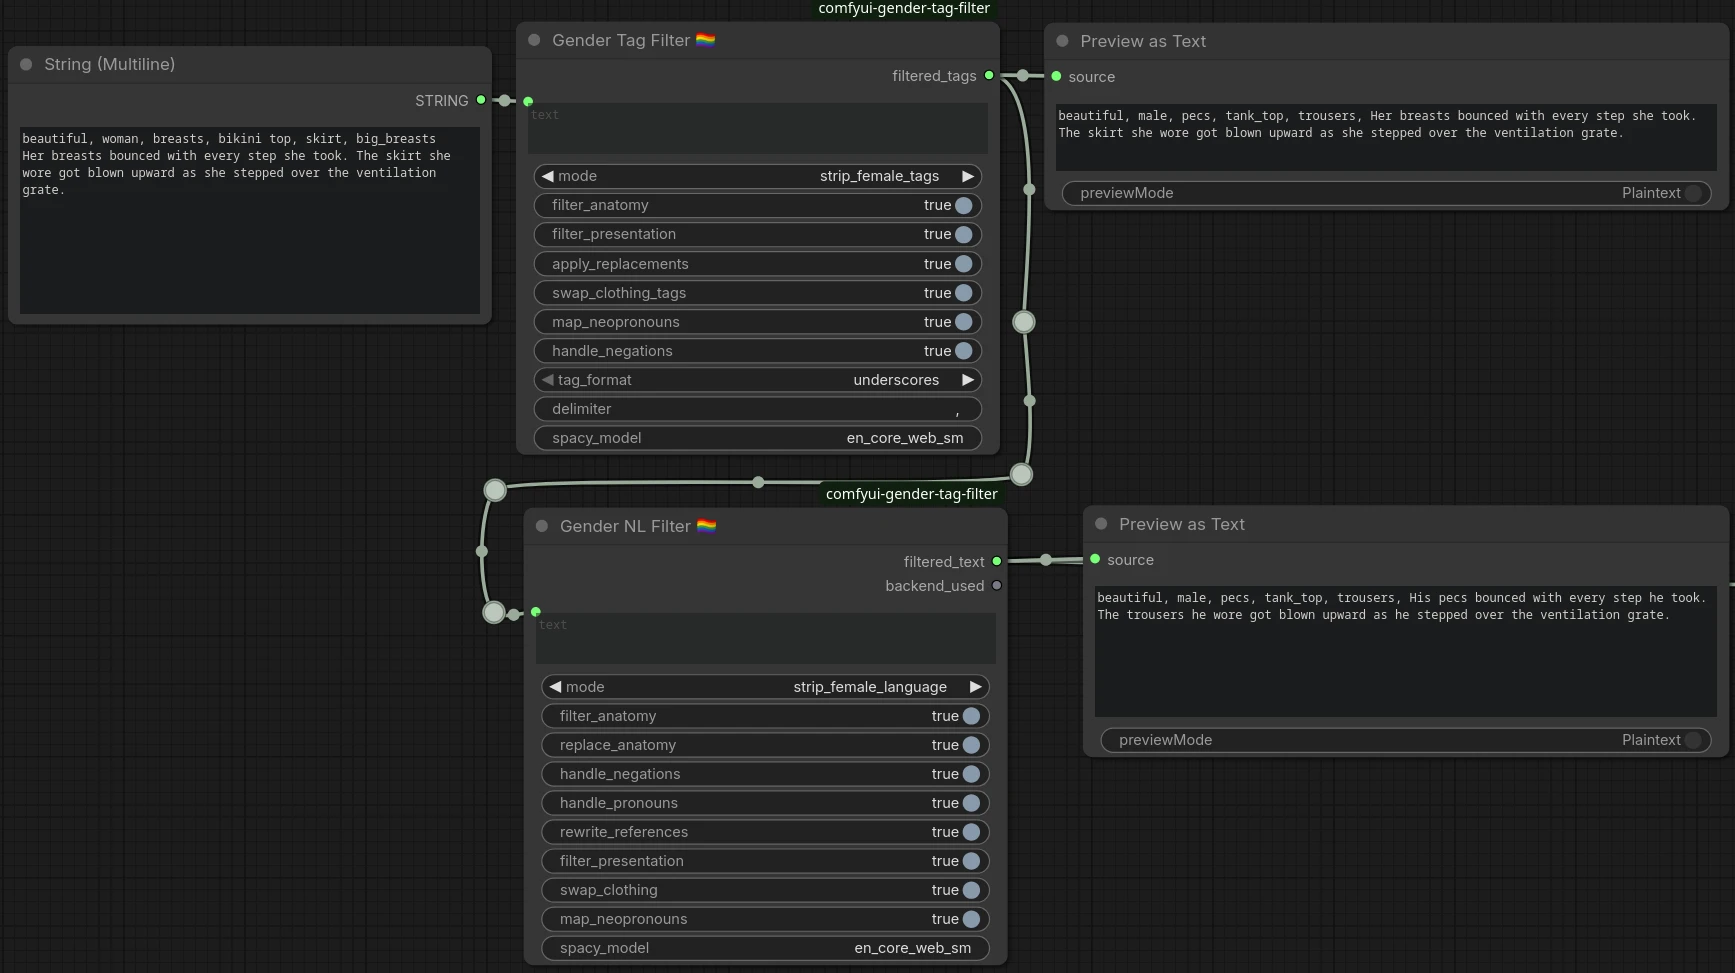
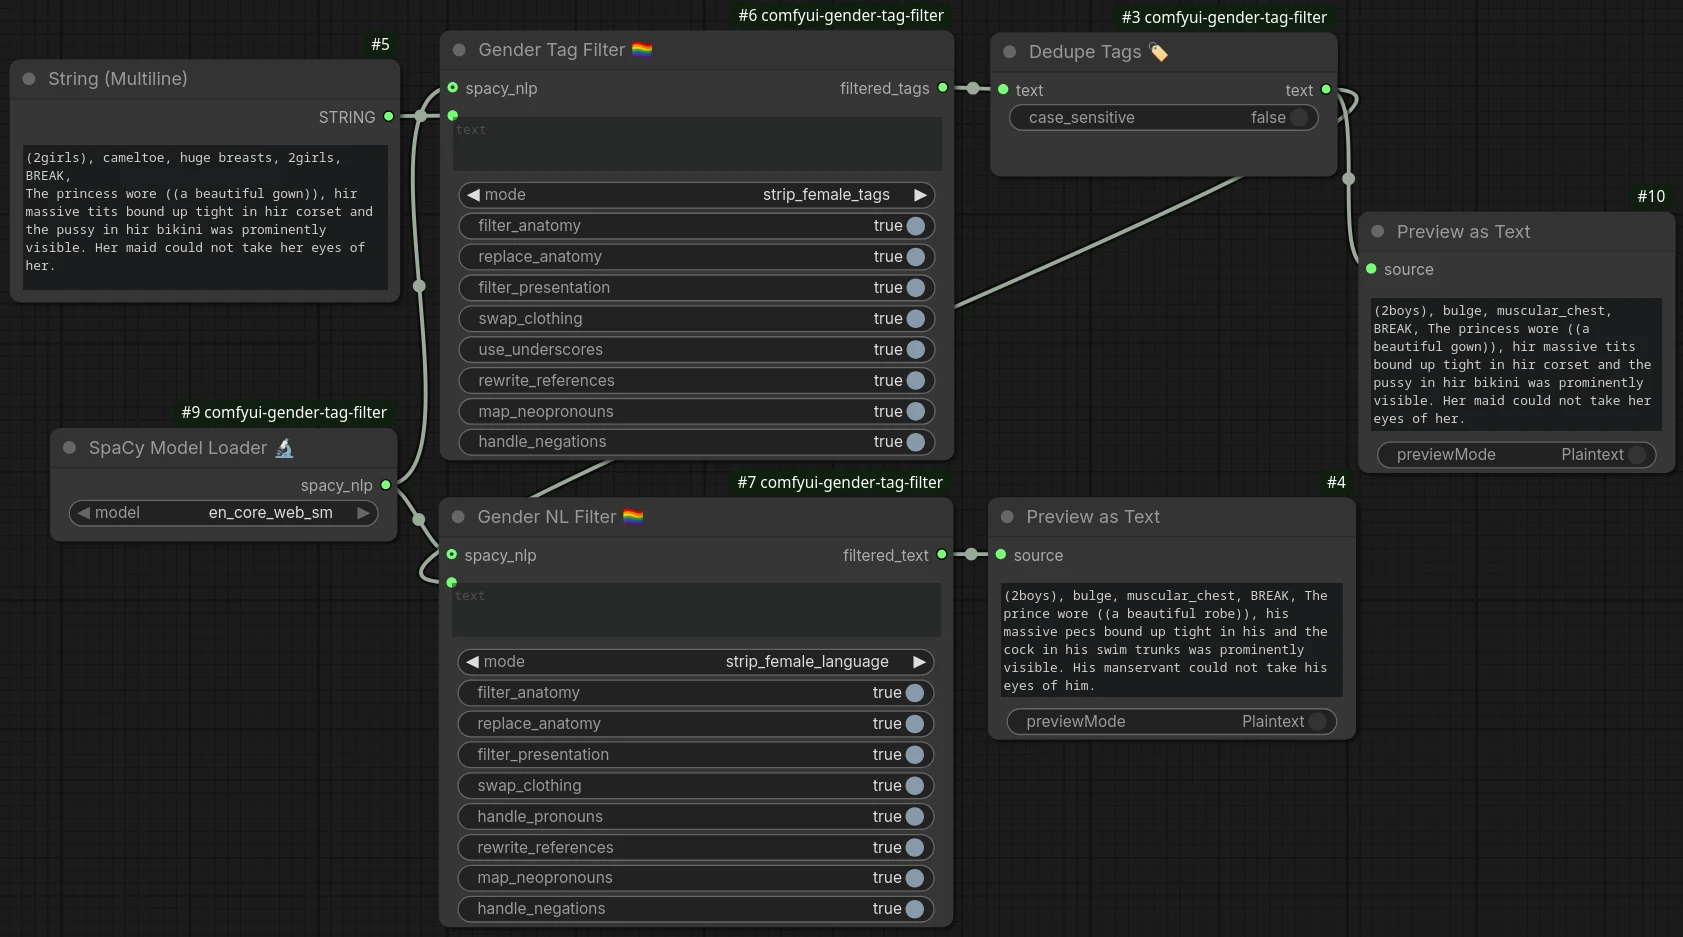
v1.2.1

Changed region(s): [[0.0, 0.0, 1.0, 1.0], [0.6179, 0.2476, 0.6488, 0.2785]]

diff --git a/gender_shared.py b/gender_shared.py
@@ -234,6 +234,7 @@ def format_tag(tag: str, tag_format: str) -> str:
 # NL / tag detection
 # ---------------------------------------------------------------------------
 
+# fmt: off
 NL_STOP_WORDS = frozenset({
     # Articles and copulas - never appear in Danbooru tags
     "a", "an", "the",
@@ -1508,6 +1509,7 @@ CLOTHING_MALE_TO_FEMALE_NL = {
     "tie":                  "choker",
     "necktie":              "choker",
 }
+# fmt: on
 
 # ---------------------------------------------------------------------------
 # Dangling adjective pattern (used in NL anatomy removal)

diff --git a/RELEASE_NOTES.md b/RELEASE_NOTES.md
@@ -1,68 +1,23 @@
-# v1.2.0 - SpaCy Model Loader, emphasis syntax, massively expanded data, and studio-quality polish
+# v1.2.1 - Source layout restored
 
-A major upgrade. Four nodes now instead of three. Every tag list has been expanded by 3-5x, emphasis syntax is now fully supported, spaCy is wired in as a proper typed graph connection, and the codebase has been refactored for production quality.
+A housekeeping patch. No functional changes.
 
 ---
 
 ## Highlights
 
-### SpaCy Model Loader — a proper typed node for spaCy
+### Human-readable data maps restored
 
-spaCy is no longer a hidden string input buried at the bottom of each filter node. A new **SpaCy Model Loader** node loads a model from `ComfyUI/models/spacy/` and outputs a typed `SPACY_NLP` object. Wire it into either filter node to enable spaCy-backed processing; leave it disconnected to use the built-in fallback.
+The Ruff formatter had quietly collapsed all the neatly aligned data maps and replacement tables in `gender_shared.py` into dense, hard-to-read single-line style. The maps are now protected with `# fmt: off` / `# fmt: on` markers so the aligned column layout is preserved and stays that way.
 
-The `SPACY_NLP` custom type means the ComfyUI graph enforces the connection — only the loader can feed those inputs. The presence or absence of the loader node in your graph is itself the signal for whether spaCy is active, replacing the old `backend_used` output.
+If you ever want to add words, tags, or swap pairs to the data sets, `gender_shared.py` is once again easy to navigate and edit.
 
-The loader also detects the most common setup mistake: accidentally placing the outer pip package wrapper folder instead of the inner versioned model folder. It appears in the dropdown, and selecting it produces a clear error with the exact paths to fix.
+### Updated screenshot
 
-### Emphasis syntax support across all nodes
-
-A1111/Forge emphasis syntax - `(tag:1.3)`, `((tag))`, `[tag]` - is now correctly parsed, filtered, and re-wrapped with the original emphasis intact. Previously, emphasis-wrapped tags could bypass filtering entirely.
-
-LoRA (`<lora:name:weight>`), hypernetwork, LyCORIS, and embedding syntax are detected and passed through untouched. The `BREAK` keyword is also preserved.
-
-This applies to all three nodes: Gender Tag Filter, Gender NL Filter, and Dedupe Tags.
-
-### 3-5x larger tag coverage
-
-The tag and word lists that power the filtering have been massively expanded:
-
-| Data set | v1.1.0 | v1.2.0 |
-| --- | --- | --- |
-| Female anatomy tags | ~40 | **145** |
-| Male anatomy tags | ~25 | **118** |
-| Female presentation tags | ~50 | **152** |
-| Male presentation tags | ~15 | **43** |
-| F→M clothing swaps | ~30 | **112** |
-| M→F clothing swaps | ~15 | **56** |
-| F→M NL word swaps | ~40 | **128** |
-| M→F NL word swaps | ~35 | **118** |
-| NL clothing patterns | ~20 | **111** |
-| Anatomy root words | ~15 | **69** |
-| Neopronoun entries | ~10 | **35** |
-
-New coverage includes exposure/situational tags (`pantyshot`, `upskirt`, `zettai_ryouiki`, `no_bra`, `no_panties`), furry-specific gendered terms (`vixen`, `doe`, `mare`, `tigress`, `stallion`, `buck`), cross-gender anatomy NL pairings (`pussy` ↔ `cock`, `vagina` ↔ `penis`), and comprehensive makeup, lingerie, swimwear, and formalwear mappings.
-
-### Smarter pronoun handling
-
-The NL Filter now disambiguates `her` between possessive (`her coat` → `his coat`) and object (`gave her` → `gave him`) using spaCy dependency and morphology analysis. Previously both were mapped to the same replacement.
-
-### Negation detection fix
-
-Phrases like `the character has no breasts` were not being detected as negated because spaCy labels `no` before a noun as a determiner (`det`), not a negation (`neg`). The negation detector now also checks for negation determiners and walks up to the head verb, correctly preserving these phrases.
-
-### Performance
-
-All 10 NL regex pattern sets are now precompiled at module load rather than recompiled on every call. All constant data sets use `frozenset` for immutability and faster lookups.
+The node reference screenshot has been updated to reflect the current node layout.
 
 ---
 
 ## Upgrading
 
-**Existing workflows will need minor updates** due to the spaCy refactor:
-
-- The `spacy_model` string input is gone from both filter nodes. Add a **SpaCy Model Loader** node and wire it in if you want spaCy-backed processing, or leave the `spacy_nlp` input disconnected to keep using the fallback.
-- The `backend_used` output is gone. The loader node in the graph is the signal that spaCy is active.
-- The `delimiter` input is gone from both filter nodes and Dedupe Tags — input is always split on commas with whitespace stripped, output always uses `, `.
-- `tag_format` on the Gender Tag Filter is now `use_underscores` (boolean). Re-connect the widget if you had it set to `spaces`.
-
-If you were using Dedupe Tags, emphasis-wrapped duplicates like `(large_breasts:1.3)` and `large_breasts` are now correctly caught. Previously both would survive.
+No breaking changes. Drop-in replacement for v1.2.0.

diff --git a/CHANGELOG.md b/CHANGELOG.md
@@ -5,6 +5,18 @@ All notable changes to this project will be documented in this file.
 The format is based on [Keep a Changelog](https://keepachangelog.com/en/1.1.0/),
 and this project adheres to [Semantic Versioning](https://semver.org/spec/v2.0.0.html).
 
+## [1.2.1] - 2026-03-23
+
+### Changed
+
+- **Source layout restored** (`gender_shared.py`): the Ruff formatter had collapsed the aligned, human-readable column layout of all data maps and replacement tables into dense single-line style. The maps are now protected with `# fmt: off` / `# fmt: on` markers so the aligned layout is preserved exactly as authored — easier to read, easier to extend.
+
+### Other
+
+- Updated screenshot to reflect the current node layout
+
+---
+
 ## [1.2.0] - 2026-03-22
 
 ### Added
